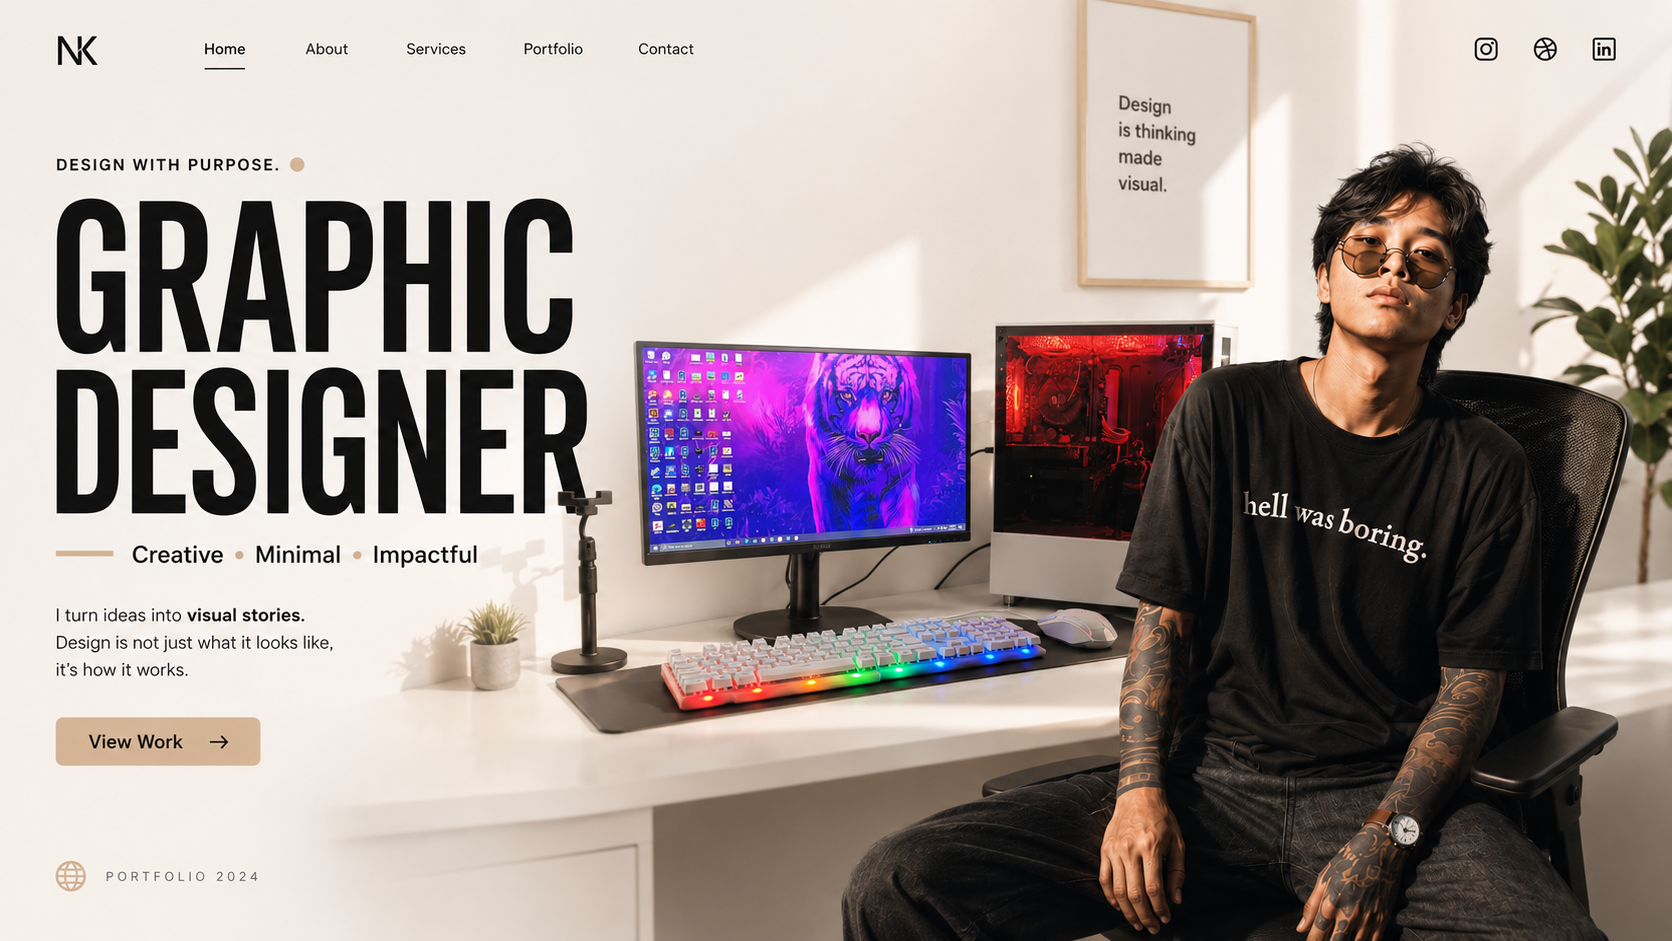
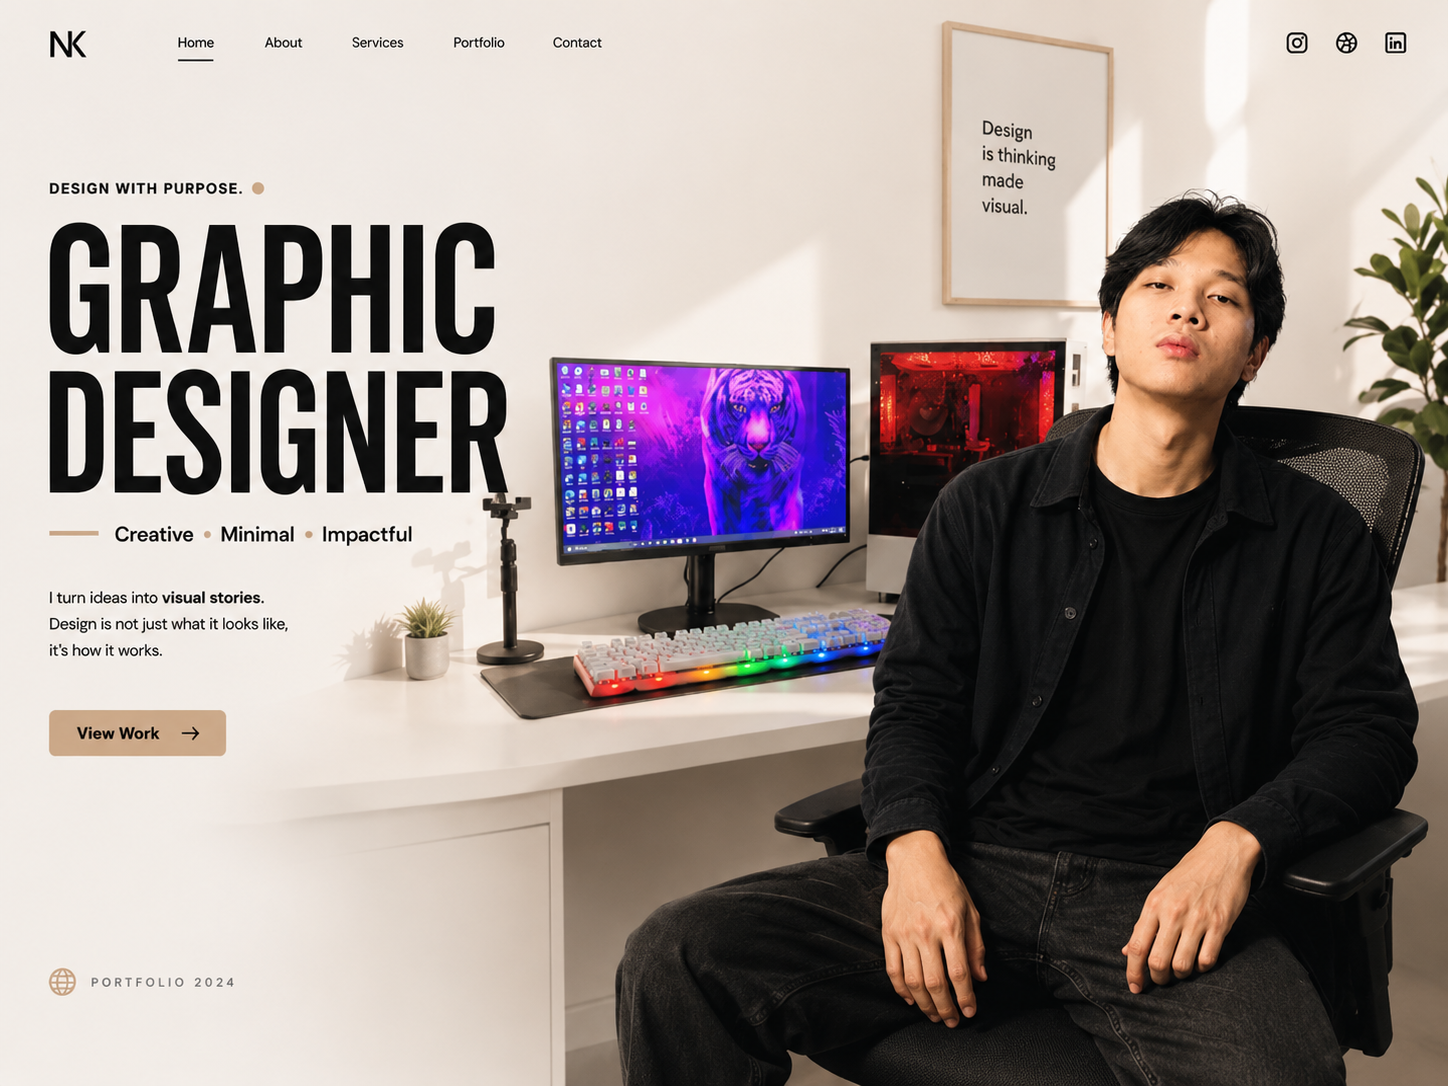
Replace portfolio cover photo

diff --git a/styles.css b/styles.css
@@ -296,7 +296,8 @@ img {
 
 .hero-cover-card {
   position: relative;
-  min-height: clamp(680px, 78vh, 880px);
+  min-height: 0;
+  aspect-ratio: 1448 / 1086;
   overflow: hidden;
   border-radius: clamp(24px, 4vw, 44px);
   background:
@@ -308,18 +309,7 @@ img {
 }
 
 .hero-cover-card::before {
-  position: absolute;
-  z-index: 1;
-  inset: -35%;
-  background:
-    linear-gradient(115deg, transparent 18%, rgb(255 255 255 / 28%) 45%, transparent 62%),
-    radial-gradient(circle at 78% 20%, rgb(20 168 0 / 22%), transparent 24rem);
-  content: "";
-  mix-blend-mode: screen;
-  opacity: 0.42;
-  pointer-events: none;
-  transform: translate3d(-18%, 8%, 0) rotate(8deg);
-  animation: cinematic-glow 14s ease-in-out infinite alternate;
+  display: none;
 }
 
 .hero-cover-media,
@@ -334,25 +324,17 @@ img {
 }
 
 .hero-cover-media::before {
-  position: absolute;
-  inset: 0;
-  background-image: url("./assets/portfolio-ui-design/cover-photo.png");
-  background-position: center;
-  background-size: cover;
-  content: "";
-  filter: blur(28px) saturate(1.1) brightness(0.72);
-  opacity: 0.72;
-  transform: scale(1.1);
+  display: none;
 }
 
 .cover-photo {
   z-index: 1;
   width: 100%;
   height: 100%;
-  filter: saturate(0.96) brightness(0.82);
+  filter: none;
   object-fit: contain;
   object-position: center;
-  transform: translate3d(0, calc(var(--hero-shift, 0px) * -0.08), 0);
+  transform: none;
 }
 
 .hero-visual-field,
@@ -363,11 +345,7 @@ img {
 }
 
 .hero-visual-field {
-  z-index: 1;
-  overflow: hidden;
-  background:
-    linear-gradient(90deg, rgb(0 0 0 / 72%) 0%, rgb(0 0 0 / 36%) 42%, rgb(0 0 0 / 8%) 100%),
-    linear-gradient(180deg, rgb(0 0 0 / 8%) 0%, rgb(0 0 0 / 36%) 100%);
+  display: none;
 }
 
 .hero-visual-field::before {
@@ -452,14 +430,7 @@ img {
 }
 
 .hero-cover-content {
-  position: relative;
-  z-index: 2;
-  display: grid;
-  align-content: center;
-  max-width: 1020px;
-  min-height: inherit;
-  padding: clamp(44px, 7vw, 96px);
-  color: white;
+  display: none;
 }
 
 .hero .eyebrow {
@@ -2005,7 +1976,7 @@ button.video-card {
   }
 
   .hero-cover-card {
-    min-height: clamp(660px, 74vh, 820px);
+    min-height: 0;
   }
 
   .market-grid {
@@ -2111,7 +2082,7 @@ button.video-card {
   }
 
   .hero-cover-card {
-    min-height: 760px;
+    min-height: 0;
   }
 
   .hero-cover-content {
@@ -2201,7 +2172,7 @@ button.video-card {
   }
 
   .hero-cover-card {
-    min-height: 720px;
+    min-height: 0;
     border-radius: 28px;
   }
 

diff --git a/index.html b/index.html
@@ -14,7 +14,7 @@
       href="https://fonts.googleapis.com/css2?family=DM+Sans:wght@400;500;600;700&amp;display=swap"
       rel="stylesheet"
     />
-    <link rel="stylesheet" href="styles.css?v=premium-section-bg-20260606" />
+    <link rel="stylesheet" href="styles.css?v=new-cover-photo-20260606" />
     <script>
       document.documentElement.classList.add("js");
     </script>
@@ -69,10 +69,10 @@
           <div class="hero-cover-media" aria-label="Portfolio cover image">
             <img
               class="cover-photo"
-              src="./assets/portfolio-ui-design/cover-photo.png"
+              src="./assets/portfolio-ui-design/cover-photo.png?v=new-cover-photo-20260606"
               alt="Portfolio cover design"
-              width="1672"
-              height="941"
+              width="1448"
+              height="1086"
               fetchpriority="high"
             />
           </div>
@@ -456,6 +456,6 @@
       </article>
     </dialog>
 
-    <script src="script.js?v=premium-section-bg-20260606"></script>
+    <script src="script.js?v=new-cover-photo-20260606"></script>
   </body>
 </html>
